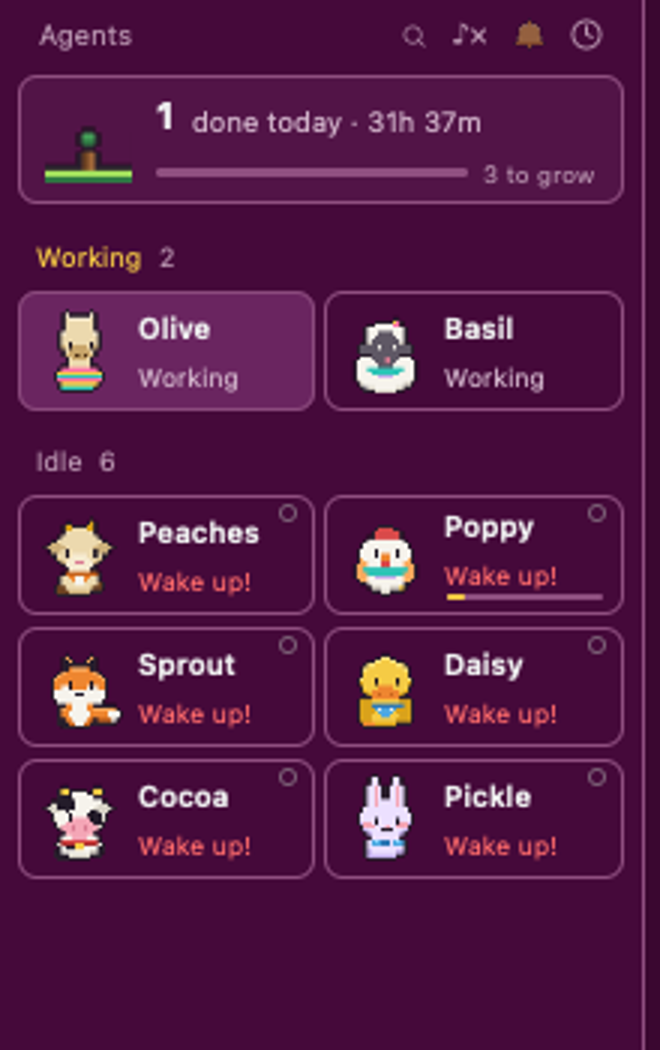
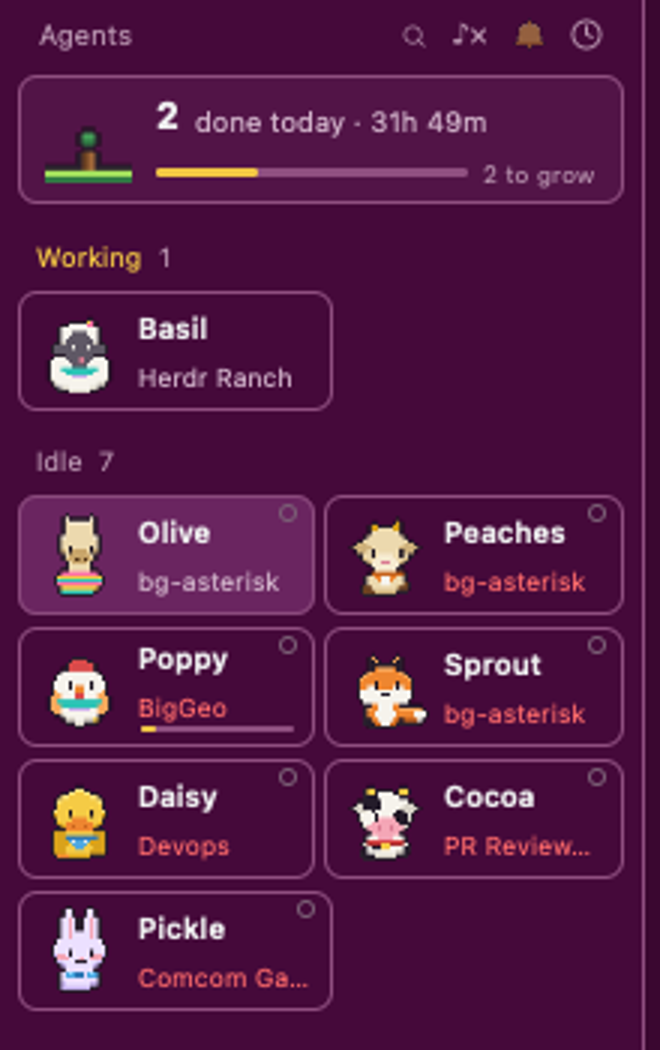
feat(flock): two-column cards show the space the agent is connected to

diff --git a/mods/flock/main.js b/mods/flock/main.js
@@ -929,8 +929,8 @@ export default class Agents extends View {
       const line2 = change ? `\u270e ${change}` : detailParts.join(" \u00b7 ");
       const hint = [hero ? names[a.address] ?? titleCase(hero) : null, place, session, stat?.model, hasCtx ? `HP ${stat.ctx}%` : null, hasQuota ? `SP ${Math.max(0, 100 - stat.quota)}% left` : null].filter(Boolean).join(" \u00b7 ");
       if (twoCol) {
-        // Two to a row: the animal, its name and one short line; the pin and the state share the corner.
-        const short = hero ? moodOf(a.status, life) : stat?.model ?? line2;
+        // Two to a row: the animal, its name and the space it is connected to (red while it needs you or its alarm rings); the pin and the state share the corner.
+        const short = a.space_name || (hero ? moodOf(a.status, life) : stat?.model ?? line2);
         return h_flex().id(`ag-${a.address}`).relative().h(CARD_HEIGHT).flex_1().min_w(0).px(6).gap(6).items_center().rounded(8).border(1)
           .border_color(a.focused ? t.input : t.border)
           .when(a.focused, (el) => el.bg(t.selected))
@@ -946,7 +946,7 @@ export default class Agents extends View {
           .when(Boolean(sprite), (el) => el.child(div().id(`agent-sprite-${a.address}`).flex_none().w(SPRITE_SIZE).h(SPRITE_SIZE).child(sprite)))
           .child(v_flex().flex_1().min_w(0).gap(2).pb(hasCtx || hasQuota ? 5 : 0)
             .child(div().truncate().text_size(12).font_semibold().text_color(t.foreground).child(title))
-            .child(div().truncate().text_size(10.5).text_color(life === "alarm" ? t.blocked : t.muted).child(short || "")))
+            .child(div().truncate().text_size(10.5).text_color(life === "alarm" || a.status === "blocked" ? t.blocked : t.muted).child(short || "")))
           .when(hasCtx || hasQuota, (el) => el.child(h_flex().absolute().left(SPRITE_SIZE + 14).right(8).bottom(5).gap(5)
             .when(hasCtx, (b) => b.child(this.miniBar(t, stat.ctx, stat.ctx >= CTX_DANGER ? t.blocked : stat.ctx >= CTX_WARN ? t.done : t.working)))
             .when(hasQuota, (b) => b.child(this.miniBar(t, Math.max(0, 100 - stat.quota), 100 - stat.quota <= 10 ? t.blocked : 100 - stat.quota <= 30 ? t.done : t.accent)))))

diff --git a/RECIPE.md b/RECIPE.md
@@ -32,7 +32,7 @@ Themes, set on the layout as `{ "light": "ranch-meadow", "dark": "ranch-dusk" }`
 - **Needs you (blocked):** a still animal with a red badge (a 6x6 red disc with a white `!`) in the top-left corner; status word "Needs you".
 - **Done:** a still animal with a gold badge (a 6x6 gold disc with a white check) in the top-left corner and two frames of falling confetti laid over it (a transparent 36px picture, every 1200ms) until you look at it; status word "Done". A 16px "✓" box on the card tucks the animal away ("N in the barn" chip) until its next task, when it comes back by itself; the chip brings everyone back at once.
 - **Ranch board.** Each working-to-idle change that lasted at least 20 seconds (`MIN_TASK`) counts one task and adds its duration (kept in the flock mod's `localStorage` key `ranch`, reset each day, and published as shared `ranch.today`). The tree has 8 stages by tasks done: 0, then 1, 4, 8, 13, 19, 26 and blossoms at 30 (14x14 pictures `icons/tree-<n>[-droop].svg`). Spend is each session's highest `$` cost seen, read only from a row that looks like the status line (it shows `ctx`, a model name, `5h` or `last $`), summed; clicking the amount makes what each session has cost so far its zero.
-- **Agent list options.** `mods/flock/agentview.js` (`STATES`, `filterByState`, `pairUp`, `nextIndex`). Shared `agents.sort` is `priority` | `longest` (needs you first, oldest wait on top) | `grouped`; shared `agents.filter` is `all` | `blocked` | `working` | `done` | `idle` and shows a chip in the header; both are set in the sort popup (220x345). Shared `ranch.layout` = `{ columns: 2 }` turns on the compact card (`twoCol`: `flex_1 min_w(0)` cards in an `h_flex` pair, animal 36px in an id'd box, name, one short line, the HP/SP bars along the bottom, the state or pin absolute in the corner, no sub-agent rows). Shared `ranch.hide.board` hides the ranch board. The popup in `meadows` has a row for each and is 410px high. In `flock-status`, the "needs you" chip is a button that focuses the next waiting agent (`jumpToWaiting`). Scout's card in `reviewerSection` gets a `working` edge, a 10% tint and a `working`-coloured word while reviewing.
+- **Agent list options.** `mods/flock/agentview.js` (`STATES`, `filterByState`, `pairUp`, `nextIndex`). Shared `agents.sort` is `priority` | `longest` (needs you first, oldest wait on top) | `grouped`; shared `agents.filter` is `all` | `blocked` | `working` | `done` | `idle` and shows a chip in the header; both are set in the sort popup (220x345). Shared `ranch.layout` = `{ columns: 2 }` turns on the compact card (`twoCol`: `flex_1 min_w(0)` cards in an `h_flex` pair, animal 36px in an id'd box, name, the space name (`space_name`; red when blocked or on "Wake up!"), the HP/SP bars along the bottom, the state or pin absolute in the corner, no sub-agent rows). Shared `ranch.hide.board` hides the ranch board. The popup in `meadows` has a row for each and is 410px high. In `flock-status`, the "needs you" chip is a button that focuses the next waiting agent (`jumpToWaiting`). Scout's card in `reviewerSection` gets a `working` edge, a 10% tint and a `working`-coloured word while reviewing.
 - **Needs-you bell.** The bell rings (two frames, 700ms) while anyone is blocked and carries a red count; click it for a popup (300px wide) listing every waiting animal across all spaces, longest wait first: a 30px blocked animal, its name, "<space> · <program>" and the wait in red; a click focuses that pane and closes the popup.
 - **Find.** The magnifier shows a text box; animals that do not match (name, animal, space, program, state) fade to 25%; Enter focuses the first match.
 - **Rename.** Clicking an animal's name opens a 320px popup with a text box (Enter saves, Esc cancels); an empty name gives a fresh random one. It writes shared `flock.names`, which the toasts and pane header read.

diff --git a/README.md b/README.md
@@ -82,9 +82,9 @@ Looking at an animal (focusing its pane) resets it to "Resting". Sub-agents show
 
 - **Ranch board.** Tasks done today, work time and spend, an apple tree that grows with your day (stages at 1, 4, 8, 13, 19 and 26 tasks, blossoms at 30, droops while someone has waited on you for over 5 minutes), and a gauge for the lowest 5-hour quota left.
 - **Agent cards.** Every card is one size, the same as a server card. First line: the animal, its name (click to rename) and its state. Second line: the space, the model, the cost and the tab title, or, after a task, what it changed. An **HP** bar (context used, green then yellow then red) and an **SP** bar (5-hour quota left) are two thin lines along the bottom; hover a card for the numbers and the full title.
-- **Two to a row.** Tick "Two agents per row" in Ranch settings for smaller cards side by side: the animal, its name, its state and the HP and SP bars; hover a card for the details and the pin.
+- **Two to a row.** Tick "Two agents per row" in Ranch settings for smaller cards side by side: the animal, its name, the space it is connected to (red while it needs you) and the HP and SP bars; hover a card for the model, the state and the pin.
 
-<p align="center"><img src="assets/two-columns.png" alt="The Agents list in two columns: Olive and Basil working, then six resting animals, two to a row, each card with the animal, its name and its state" width="280"><br><sub>The real sidebar with two agents per row.</sub></p>
+<p align="center"><img src="assets/two-columns.png" alt="The Agents list in two columns: Basil working, then six resting animals, two to a row, each card with the animal, its name and the space it is connected to" width="280"><br><sub>The real sidebar with two agents per row.</sub></p>
 
 - **Show one state, waiting first.** The sort button has Priority (needs you, then done, working, resting), Waiting longest first, and Grouped by space, plus a **Show** list: Everyone, Needs you, Working, Done or Resting. A chip in the header says what is filtered; click it to clear.
 - **"N needs you" in the status bar** is a red button. Click it to jump to the next agent waiting for you, and again for the one after.

diff --git a/CHANGELOG.md b/CHANGELOG.md
@@ -6,7 +6,7 @@ Agent list polish.
 
 - **Show only one state.** The sort button in the Agents header now also has a **Show** list (Everyone, Needs you, Working, Done, Resting); a small chip in the header says what is filtered and clears it. There is a new sort, **Waiting longest first**, next to Priority (which already puts "Needs you" on top).
 - **"N needs you" in the status bar is a button.** It is red and bold, and a click focuses the next agent waiting for you, then the next, and around.
-- **Two agents per row.** A new setting in Ranch settings (the `···` button): smaller cards, side by side, with the animal, its name, its state and the HP and SP bars. Hover for the pin; sub-agent rows are left out in this layout.
+- **Two agents per row.** A new setting in Ranch settings (the `···` button): smaller cards, side by side, with the animal, its name, the space it is connected to (red while it needs you) and the HP and SP bars. Hover for the pin; sub-agent rows are left out in this layout.
 - **Hide the Ranch board** (the tree, tasks done today and spend) from Ranch settings.
 - **Scout lights up while reviewing**: a coloured edge and tint on its card, and "Reviewing" in the colour of work, on top of the busy poses it already had.
 
